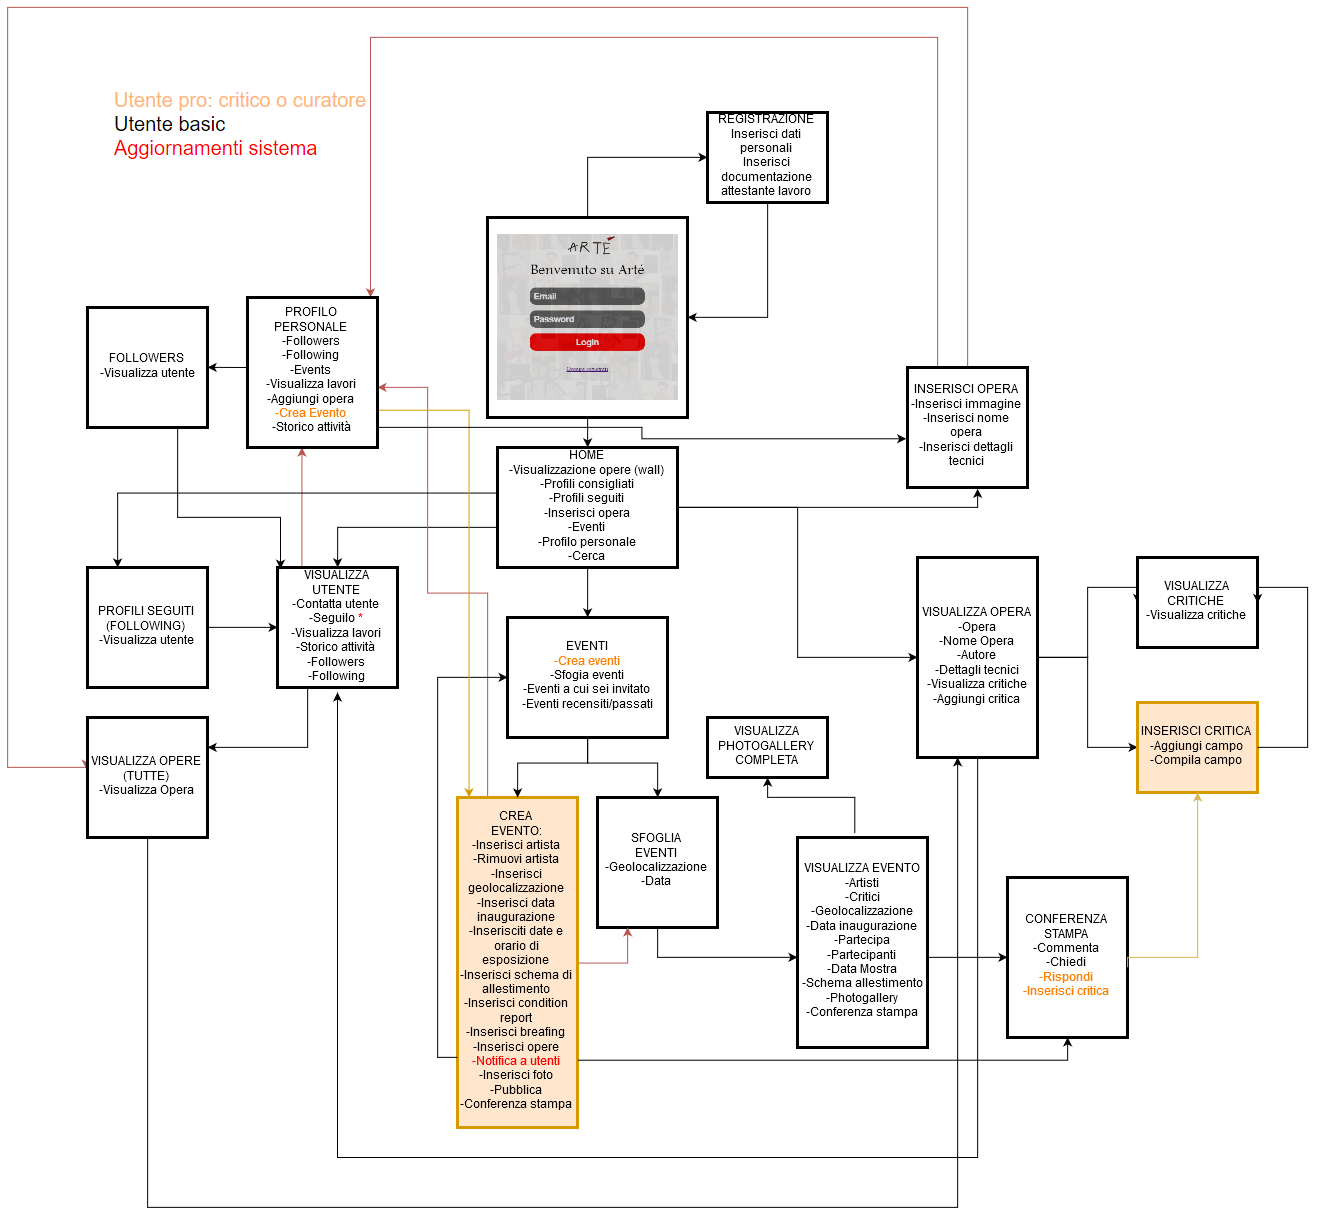
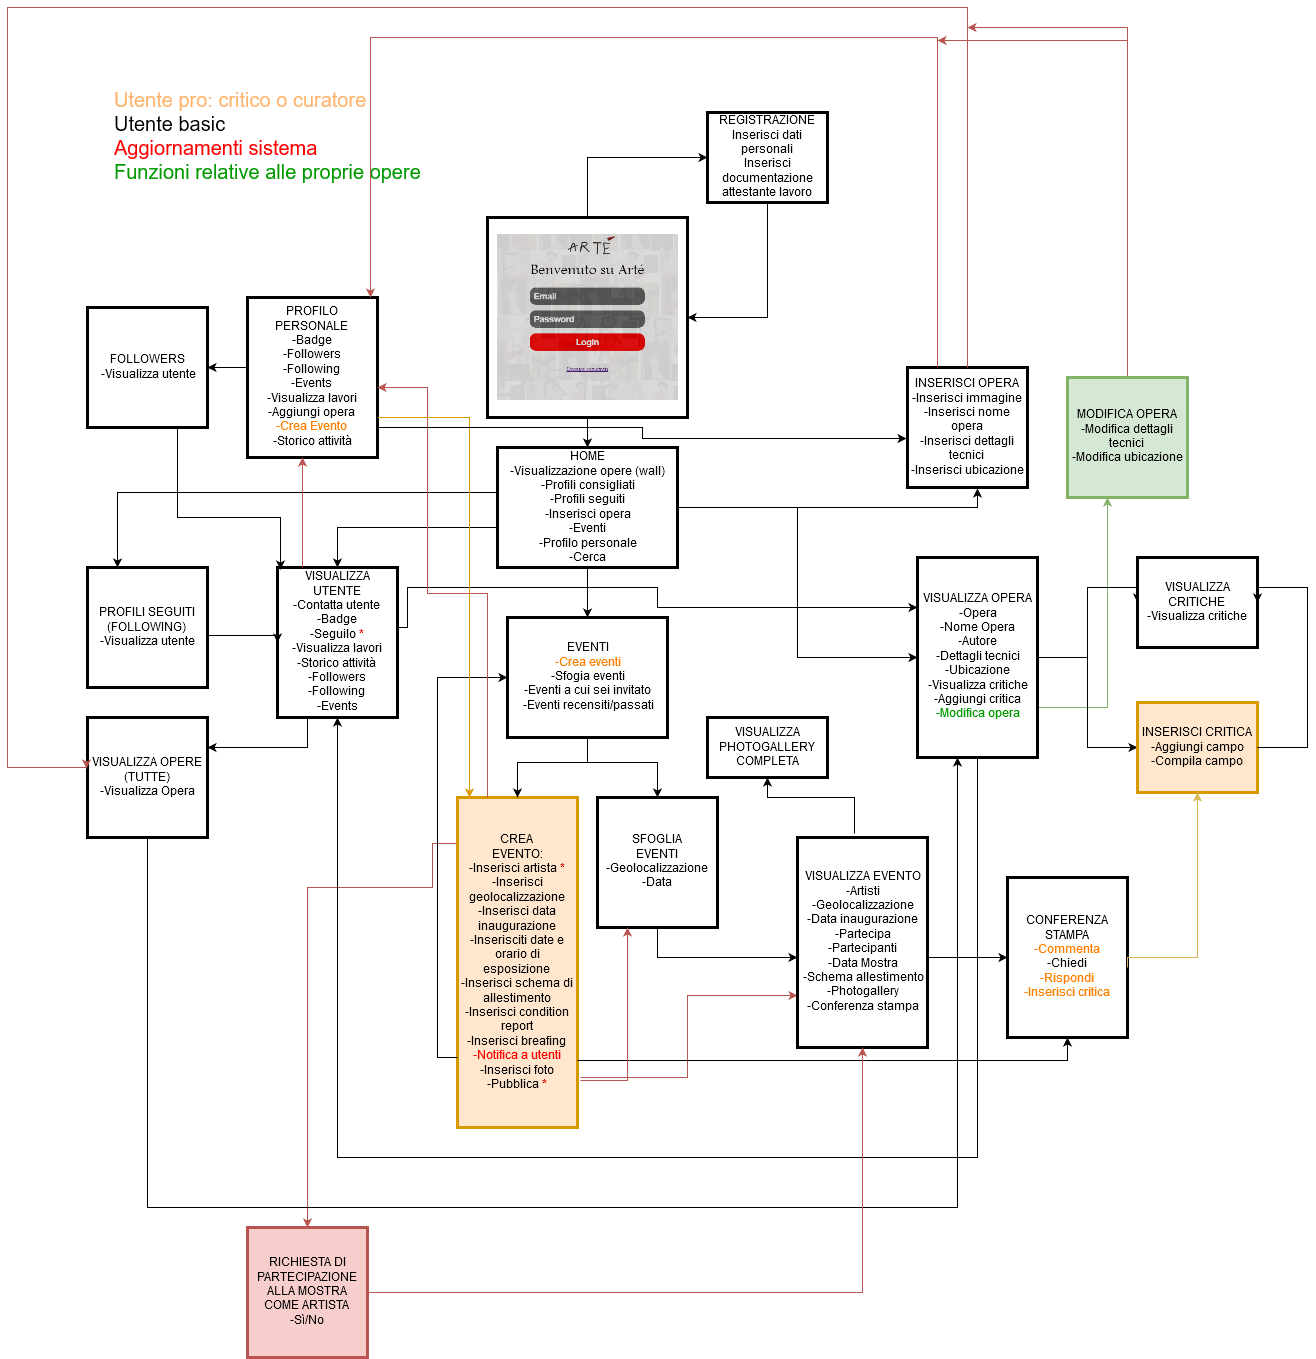
Aggiornamento funzioni e diagramma

diff --git a/index.html b/index.html
@@ -170,10 +170,11 @@
       <div class="subsection">
         <h2 id="funzionalita-e-architettura">Funzionalità e architettura</h2>
 
-        <h3 id="funzionalita-complete-del-social-network">Funzionalità complete del social network</h3>
+        <h3 id="funzionalita-complete-del-social-network">Funzionalità complete del social network: base</h3>
 
-        <p>Inserire una tabella in cui sono elencate (ad alto livello) TUTTE le funzionalità del vostro social network, anche quelle che
-          non compariranno nel prototipo.</p>
+        <!-- <p>Inserire una tabella in cui sono elencate (ad alto livello) TUTTE le funzionalità del vostro social network, anche quelle che
+          non compariranno nel prototipo.</p> -->
+
 
         <table>
           <thead>
@@ -188,54 +189,60 @@
                 <td style="text-align: center">I visitatori possono iscriversi come utenti premium o basic</td>
             </tr>
             <tr>
-                <td style="text-align: center">Suggerisci artista</td>
-                <td style="text-align: center">Gli utenti premium possono suggerire altri</td>
-            </tr>
-            <tr>
-                <td style="text-align: center">Visualizza opere in dashboard</td>
-                <td style="text-align: center">Gli utenti basic e premium possono visualizzare opere nella dashboard</td>
+                <td style="text-align: center">Visualizza home</td>
+                <td style="text-align: center">Gli utenti possono visualizzare opere e eventi nella home</td>
             </tr>
             <tr>
                 <td style="text-align: center">Visualizza profilo</td>
-                <td style="text-align: center">Gli utenti basic e premium possono visualizzare profili di altri utenti</td>
+                <td style="text-align: center">Gli utenti possono visualizzare il proprio profilo o profili di altri utenti</td>
             </tr>
             <tr>
-                <td style="text-align: center">Segui profilo</td>
-                <td style="text-align: center">Gli utenti basic e premium possono seguire profili di altri utenti</td>
+              <td style="text-align: center">Visualizza opera</td>
+              <td style="text-align: center">L'utente può visualizzare opere di altri utenti</td>
             </tr>
             <tr>
-                <td style="text-align: center">Messaggistica</td>
-                <td style="text-align: center">Gli utenti premium possono messaggiare tra di loro</td>
+              <td style="text-align: center">Inserisci/modifica opera</td>
+              <td style="text-align: center">L'utente può inserire o modificare opere realizzate da lui oppure di cui detiene i diritti</td>
             </tr>
             <tr>
-              <td style="text-align: center">Inserisci opera</td>
-              <td style="text-align: center">L'utente premium può inserire le opere realizzate da loro oppure di cui tengono i diritti</td>
+             <tr>
+              <td style="text-align: center">Visualizza evento</td>
+              <td style="text-align: center">Gli utenti possono visulizzare e partecipare agli eventi organizzati</td>
             </tr>
-            <tr>
-              <td style="text-align: center">Inserisci critica</td>
-              <td style="text-align: center">L'utente premium può inserire una critica alle opere caricate da altri</td>
-            </tr>
-            <tr>
-              <td style="text-align: center">Crea evento</td>
-              <td style="text-align: center">L'utente premium può creare una mostra organizzata da lui</td>
-            </tr>
-            <tr>
-              <td style="text-align: center">Partecipa all'evento</td>
-              <td style="text-align: center">Gli utenti basic e premium possono partecipare agli eventi organizzati</td>
-            </tr>
-            <tr>
-                <td style="text-align: center">Valutazione dell'evento</td>
-                <td style="text-align: center">Gli utenti premium che hanno partecipato possono valutare con voti e commenti la mostra a cui hanno partecipato</td>
-            </tr>
-          </tbody>
+
+           </tbody>
         </table>
 
-        <h3 id="funzionalita-da-implementare-dettagliate">Funzionalità dettagliate da implementare</h3>
+        <h3 id="funzionalita-complete-del-social-network">Funzionalità complete del social network: pro</h3>
+        <table>
+          <thead>
+          <tr>
+            <th style="text-align: center">Funzionalità complete</th>
+            <th style="text-align: center">Descrizione</th>
+          </tr>
+          </thead>
+          <tbody>
+          <tr>
+          <td style="text-align: center">Inserisci critica</td>
+          <td style="text-align: center">L'utente premium può inserire una critica alle opere caricate da altri</td>
+        </tr>
+        <tr>
+          <td style="text-align: center">Crea evento</td>
+          <td style="text-align: center">L'utente premium può creare una mostra organizzata da lui</td>
+        </tr>
+          <tr>
+            <td style="text-align: center">Commenta evento</td>
+            <td style="text-align: center">L'utente premium può commentare o rispondere a domande di altri utenti sull'evento a cui ha partecipato</td>
+          </tr>
+        </tbody>
+        </table>
 
-        <p>Inserire una tabella in cui sono elencate SOLO le funzionalità del vostro social network (a basso livello) che COMPARIRANNO NEL PROTOTIPO.
+        <h3 id="funzionalita-da-implementare-dettagliate">Funzionalità dettagliate da implementare: basic</h3>
+
+       <!-- <p>Inserire una tabella in cui sono elencate SOLO le funzionalità del vostro social network (a basso livello) che COMPARIRANNO NEL PROTOTIPO.
           Inserire un riferimento alla funzionalità completa a cui fanno riferimento</p>
 
-        <p>Se vengono fatte delle semplificazioni inserirle in questa sezione, sotto la tabella.</p>
+        <p>Se vengono fatte delle semplificazioni inserirle in questa sezione, sotto la tabella.</p>-->
 
         <table>
           <thead>
@@ -247,46 +254,186 @@
           </thead>
           <tbody>
             <tr>
-              <td style="text-align: center">Nome e descrizione</td>
-              <td style="text-align: center">Inserisci nome e descrizione dell'opera</td>
-              <td style="text-align: center">Inserisci opera</td>
+              <td style="text-align: center">Iscrizione</td>
+              <td style="text-align: center">Inserimento di dati personali essenziali e foto profilo in fase di iscrizione.</td>
+              <td style="text-align: center">Iscrizione</td>
             </tr>
             <tr>
-              <td style="text-align: center">Geolocalizzazione</td>
-              <td style="text-align: center">Inserire opera</td>
-              <td style="text-align: center">Inserisci opera</td>
+              <td style="text-align: center">Visualizza opere</td>
+              <td style="text-align: center">Visualizza opere di altri utenti</td>
+              <td style="text-align: center">Visualizza home</td>
+            </tr>
+            <tr>
+              <td style="text-align: center">Visualizza profili</td>
+              <td style="text-align: center">Visualizza profili seguiti o consigliati</td>
+              <td style="text-align: center">Visualizza home</td>
+            </tr>
+            <tr>
+              <td style="text-align: center">Cerca</td>
+              <td style="text-align: center">Cerca contenuti nel social network</td>
+              <td style="text-align: center">Visualizza home</td>
+            </tr>
+            <tr>
+              <td style="text-align: center">Followers</td>
+              <td style="text-align: center">Visualizza followers</td>
+              <td style="text-align: center">Visualizza profilo</td>
+            </tr>
+            <tr>
+              <td style="text-align: center">Following</td>
+              <td style="text-align: center">Visualizza gli utenti seguiti dal profilo</td>
+              <td style="text-align: center">Visualizza profilo</td>
+            </tr>
+            <tr>
+              <td style="text-align: center">Contatta</td>
+              <td style="text-align: center">Manda un messaggio all'utente</td>
+              <td style="text-align: center">Visualizza profilo</td>
+            </tr>
+            <tr>
+              <td style="text-align: center">Segui</td>
+              <td style="text-align: center">Segui l'utente</td>
+              <td style="text-align: center">Visualizza profilo</td>
+            </tr>
+            <tr>
+              <td style="text-align: center">Visualizza lavori</td>
+              <td style="text-align: center">Visualizza i lavori caricati dall'utente</td>
+              <td style="text-align: center">Visualizza profilo</td>
+            </tr>
+            <tr>
+              <td style="text-align: center">Events</td>
+              <td style="text-align: center">Visualizza gli eventi dell'utente</td>
+              <td style="text-align: center">Visualizza profilo</td>
+            </tr>
+            <tr>
+              <td style="text-align: center">Storico attività</td>
+              <td style="text-align: center">Visualizza tutte le attività dell'utente</td>
+              <td style="text-align: center">Visualizza profilo</td>
             </tr>
             <tr>
               <td style="text-align: center">Badge</td>
               <td style="text-align: center">Se utente premium carica documentazione può ottenere badge: critico o curatore</td>
-              <td style="text-align: center">Nome della funzionalità A</td>
+              <td style="text-align: center">Visualizza profilo</td>
             </tr>
             <tr>
-              <td style="text-align: center">Nome della funzionalità 4</td>
+              <td style="text-align: center">Segui profilo</td>
               <td style="text-align: center">Breve descrizione della funzionalità 4</td>
               <td style="text-align: center">Nome della funzionalità B</td>
             </tr>
             <tr>
-              <td style="text-align: center">Nome della funzionalità 5</td>
-              <td style="text-align: center">Breve descrizione della funzionalità 5</td>
-              <td style="text-align: center">Nome della funzionalità B</td>
+              <td style="text-align: center">Visualizza dati opera</td>
+              <td style="text-align: center">Visualizza dati opera</td>
+              <td style="text-align: center">Visualizza opera</td>
             </tr>
             <tr>
-              <td style="text-align: center">Nome della funzionalità 6</td>
-              <td style="text-align: center">Breve descrizione della funzionalità 6</td>
-              <td style="text-align: center">Nome della funzionalità B</td>
+              <td style="text-align: center">Visualizza critiche opera</td>
+              <td style="text-align: center">Visualizza le critiche fatte all'opera</td>
+              <td style="text-align: center">Visualizza opera</td>
             </tr>
             <tr>
-              <td style="text-align: center">...</td>
-              <td style="text-align: center">...</td>
-              <td style="text-align: center">...</td>
+              <td style="text-align: center">Inserisci dati opera</td>
+              <td style="text-align: center">Inserisci immagine e dati opera</td>
+              <td style="text-align: center">Inserisci/modifica opera</td>
             </tr>
+            <tr>
+              <td style="text-align: center">Modifica dati opera</td>
+              <td style="text-align: center">Modifica descrizione o ubicazione dell'opera</td>
+              <td style="text-align: center">Inserisci/modifica opera</td>
+            </tr>
+            <tr>
+              <td style="text-align: center">Visualizza artisti partecipanti</td>
+              <td style="text-align: center">Visualizza artisti partecipanti</td>
+              <td style="text-align: center">Visualizza evento</td>
+            </tr>
+            <tr>
+              <td style="text-align: center">Visualizza utenti partecipanti</td>
+              <td style="text-align: center">Visualizza utenti partecipanti</td>
+              <td style="text-align: center">Visualizza evento</td>
+            </tr>
+            <tr>
+              <td style="text-align: center">Visualizza data inaugurazione</td>
+              <td style="text-align: center">Visualizza calendario con data inaugurazione</td>
+              <td style="text-align: center">Visualizza evento</td>
+            </tr>
+            <tr>
+              <td style="text-align: center">Visualizza data mostra</td>
+              <td style="text-align: center">Visualizza calendario con data mostra</td>
+              <td style="text-align: center">Visualizza evento</td>
+            </tr>
+            <tr>
+              <td style="text-align: center">Visualizza ubicazione mostra</td>
+              <td style="text-align: center">Breve ubicazione della mostra</td>
+              <td style="text-align: center">Visualizza evento</td>
+            </tr>
+            <tr>
+              <td style="text-align: center">Visualizza schema allestimento mostra</td>
+              <td style="text-align: center">Visualizza schema allestimento mostra</td>
+              <td style="text-align: center">Visualizza evento</td>
+            </tr>
+            <tr>
+              <td style="text-align: center">Visualizza photogallery mostra</td>
+              <td style="text-align: center">Visualizza photogallery mostra</td>
+              <td style="text-align: center">Visualizza evento</td>
+            </tr>
+            <tr>
+              <td style="text-align: center">Visualizza conferenza stampa mostra</td>
+              <td style="text-align: center">Visualizza conferenza stampa mostra con commenti di utenti pro e la possibilità di fare loro domande al riguardo</td>
+              <td style="text-align: center">Visualizza evento</td>
+            </tr>
+            <tr>
+              <td style="text-align: center">Partecipa alla mostra</td>
+              <td style="text-align: center">L'utente segnala se partecipa alla mostra</td>
+              <td style="text-align: center">Visualizza evento</td>
+            </tr>
+          </tbody>
+        </table>
+
+        <h3 id="funzionalita-da-implementare-dettagliate">Funzionalità dettagliate da implementare: pro</h3>
+
+        <table>
+          <thead>
+          <tr>
+            <th style="text-align: center">Funzionalità</th>
+            <th style="text-align: center">Descrizione</th>
+            <th style="text-align: center">Riferimento funzionalità completa</th>
+          </tr>
+          </thead>
+          <tbody>
+          <tr>
+            <td style="text-align: center">Commenta opera</td>
+            <td style="text-align: center">L'utente può scrivere una critica dell'opera</td>
+            <td style="text-align: center">Inserisci critica</td>
+          </tr>
+          <tr>
+            <td style="text-align: center">Inserisci artisti</td>
+            <td style="text-align: center">L'utente invita degli artisti a partecipare alla sua mostra ai quali arriverà una notifica</td>
+            <td style="text-align: center">Crea evento</td>
+          </tr>
+          <tr>
+            <td style="text-align: center">Inserisci dati</td>
+            <td style="text-align: center">L'utente inserisce le informazioni della sua mostra: geolocalizzazione, data inaugurazione, date mostra, schema di allestimento, condition report, breafing, foto</td>
+            <td style="text-align: center">Crea evento</td>
+          </tr>
+          <tr>
+            <td style="text-align: center">Invia notifica a utenti</td>
+            <td style="text-align: center">Gli utenti che seguono il curatore della mostra riceveranno in automatico una notifica di creazione dell'evento</td>
+            <td style="text-align: center">Crea evento</td>
+          </tr>
+          <tr>
+            <td style="text-align: center">Commenta evento</td>
+            <td style="text-align: center">Gli utenti possono commentare l'evento a cui hanno partecipato</td>
+            <td style="text-align: center">Commenta evento</td>
+          </tr>
+          <tr>
+            <td style="text-align: center">Rispondi a domande evento</td>
+            <td style="text-align: center">Gli utenti possono rispondere a domande riguardanti l'eventi</td>
+            <td style="text-align: center">Commenta evento</td>
+          </tr>
+
           </tbody>
         </table>
 
         <h3 id="architettura-dellinformazione">Architettura dell'informazione</h3>
 
-          <p><img src="images/Arté diagramma grosso.png" height="1217" width="1317" id="diagramma"></p>
+          <p><img src="images/Arté diagramma grosso.png" height="1359" width="1316" id="diagramma"></p>
 
 
 

diff --git a/css/style.css b/css/style.css
@@ -157,7 +157,7 @@ div.logoArté {
 
 #diagramma{
     width: 675px;
-    height: 624px;
+    height: 697px;
 }
 
 
